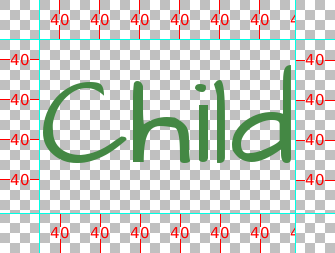
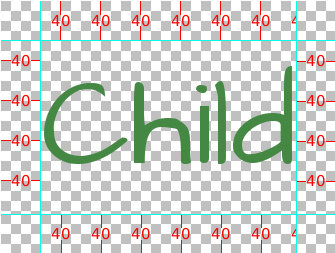
gui doc: Document frames and borders.

Changed region(s): [[0.0, 0.0, 1.0, 1.0]]

diff --git a/sphinx/source/gui.rst b/sphinx/source/gui.rst
@@ -250,12 +250,13 @@ gui/overlay/game_menu.png
     preferences, about, help, etc. This overlay is selected by the
     screen in question, and is used even when at the main menu.
 
-
-Here are a pair of example overlay images, and what the game looks like
-with the overlay images added.
-
+gui/overlay/confirm.png
+    The overlay used in the confirm screen to darken the background.
 
 .. ifconfig:: renpy_figures
+
+    Here are a pair of example overlay images, and what the game looks like
+    with the overlay images added.
 
     .. figure:: oshs/game/gui/overlay/main_menu.png
         :width: 100%
@@ -371,9 +372,82 @@ variables control text sizes.
 
         The game menu after customizing text colors, fonts, and sizes.
 
-Borders
--------
+Frames and Borders
+------------------
 
+There are a number of GUI components - such as buttons and bars - that use
+:func:`Frame` displayables configured using :func:`Border` objects. So, before
+discussing how to customize buttons and bars, we'll first describe how
+these constructs work.
+
+A Frame takes an image, and divides it into nine parts - the four corners,
+the four sides, and the center. The corners always remain the same size,
+the left and right sides are stretched vertically, the top and bottom sides
+are stretched horizontally, and the center is stretched in both directions.
+
+A Borders object gives the size of each of the borders, in left, top, right,
+bottom order. So if the following border image is used:
+
+.. image:: oshs/game/images/borders.png
+
+along with the following borders::
+
+    Borders(40, 40, 40, 40)
+
+one possible result is this:
+
+.. image:: gui/borders1.png
+
+As the child changes size, so will the background.
+
+A Border object can also be given padding, including negative padding that
+causes the child to overlap the borders. For example, these borders::
+
+    Borders(40, 40, 40, 40, -20, -20, -20, -20)
+
+allow the child to overlap the sides. Note that due to this overlap, the
+result is smaller, since the borders themselves now take up less space.
+
+.. image:: gui/borders2.png
+
+Borders can also be given a tile keyword argument, which causes the
+sides and center to be tiled instead of linearly scaled. For example::
+
+    Borders(40, 40, 40, 40, tile=True)
+
+produces this result:
+
+.. image:: gui/borders3.png
+
+These example images are a bit ugly, since we need to show what's going on.
+In practice, Frame can produce quite pleasing results. This is the case when
+a Frame displayable is used as the background of a frame window holding
+user interface components.
+
+These frame windows can be customized in two ways. The first is by changing the
+background image file:
+
+gui/frame.png
+    The image used as the background of frames windows.
+
+And the second is by customizing the borders:
+
+.. var:: gui.frame_borders = Borders(40, 40, 40, 40)
+
+    The borders applied to frame windows.
+
+.. ifconfig:: renpy_figures
+
+    .. figure:: oshs/game/gui/frame.png
+        :width: 100%
+
+        An example gui/overlay/game_menu.png image.
+
+    .. figure:: gui/frame_confirm.jpg
+        :width: 100%
+
+        The confirm screen after applying the customizations given
+        above.
 
 
 Other
